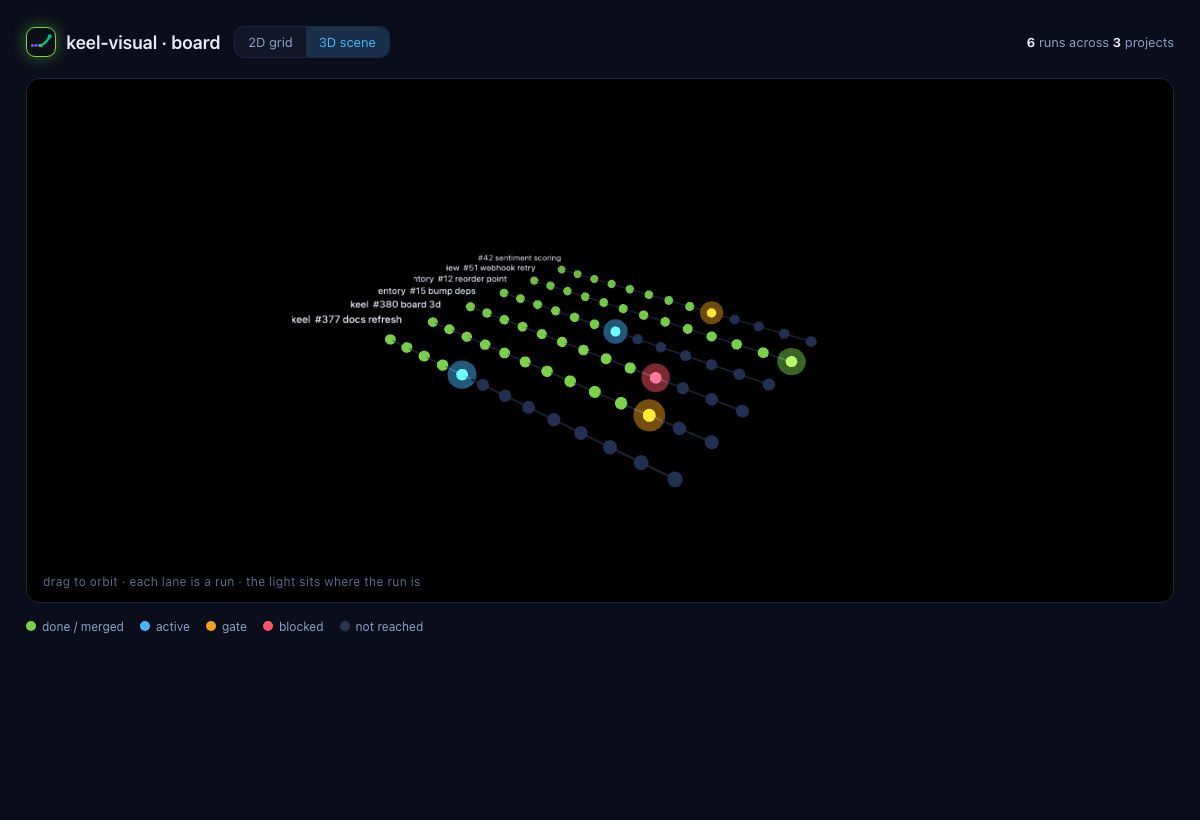
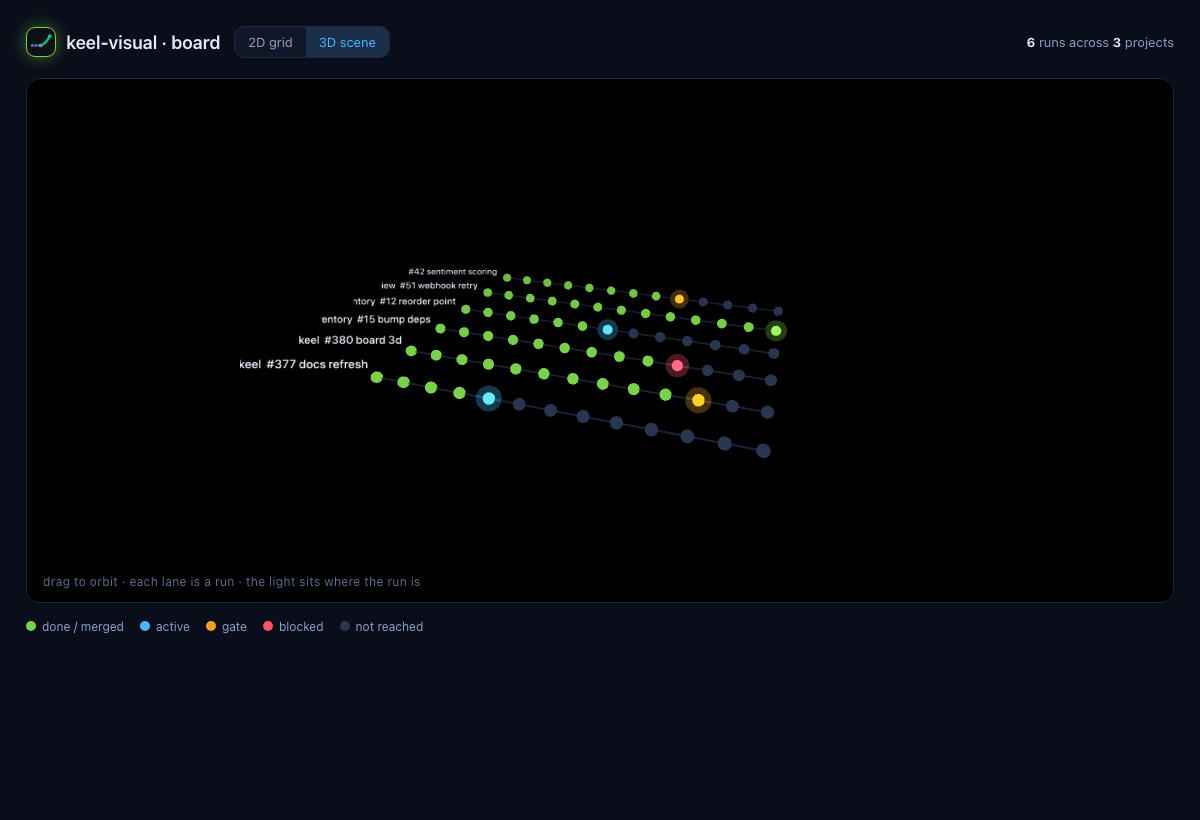
fix(visual): address review — idle colour parity, SRI on Three.js CDN
Reviewer findings on #421:
- 3D idle spheres used 0x223052 but the 2D grid's --idle is #2a3550 —
  unify so a colour means the same thing in both views.
- Three.js loaded from cdnjs without integrity. Add the cdnjs-published
  sha512 SRI + crossorigin/referrerpolicy to both board.html and
  runviz.html (hash verified against the served r128 file).
- board.html count badge built via DOM nodes instead of innerHTML
  (counts were never user data, but no string reaches innerHTML now).

Changed region(s): [[0.185, 0.3049, 0.6783, 0.5793], [0.555, 0.5793, 0.5858, 0.6098]]

diff --git a/keel-visual/src/keel_visual/templates/board.html b/keel-visual/src/keel_visual/templates/board.html
@@ -56,7 +56,7 @@
   .legend span{display:inline-flex;align-items:center;gap:6px}
   .legend i{width:10px;height:10px;border-radius:50%;display:inline-block}
 </style>
-<script src="https://cdnjs.cloudflare.com/ajax/libs/three.js/r128/three.min.js"></script>
+<script src="https://cdnjs.cloudflare.com/ajax/libs/three.js/r128/three.min.js" integrity="sha512-dLxUelApnYxpLt6K2iomGngnHO83iUvZytA3YjDUCjT0HDOHKXnVYdf3hU4JjM8uEhxf9nD1/ey98U3t2vZ0qQ==" crossorigin="anonymous" referrerpolicy="no-referrer"></script>
 </head>
 <body>
 <header>
@@ -81,12 +81,15 @@
 (function(){
   const BOARD = Array.isArray(window.KEEL_BOARD) ? window.KEEL_BOARD : [];
   const nproj = new Set(BOARD.map(r => r.project || '')).size;
-  document.getElementById('count').innerHTML =
-    '<b>'+BOARD.length+'</b> run'+(BOARD.length===1?'':'s')+' across <b>'+nproj+'</b> project'+(nproj===1?'':'s');
 
   function el(tag, cls){ const n=document.createElement(tag); if(cls) n.className=cls; return n; }
+  function bold(n){ const b=el('b'); b.textContent=String(n); return b; }
+  // counts only — never user data — but built via DOM so no string ever reaches innerHTML
+  const count = document.getElementById('count');
+  count.append(bold(BOARD.length), ' run'+(BOARD.length===1?'':'s')+' across ',
+               bold(nproj), ' project'+(nproj===1?'':'s'));
   const GATE_KINDS = {gate:1, merge:1};
-  const COL = {done:0x7ad14a, active:0x49b6ff, gate:0xf0a020, fail:0xff5468, idle:0x223052};
+  const COL = {done:0x7ad14a, active:0x49b6ff, gate:0xf0a020, fail:0xff5468, idle:0x2a3550};
 
   // colour token for a step at index idx given the run's active/merged state
   function stepTone(idx, active, merged, s){

diff --git a/keel-visual/src/keel_visual/templates/runviz.html b/keel-visual/src/keel_visual/templates/runviz.html
@@ -102,7 +102,7 @@
   .legend span{display:inline-flex;align-items:center;gap:6px}
   .legend i{width:10px;height:10px;border-radius:3px;display:inline-block}
 </style>
-<script src="https://cdnjs.cloudflare.com/ajax/libs/three.js/r128/three.min.js"></script>
+<script src="https://cdnjs.cloudflare.com/ajax/libs/three.js/r128/three.min.js" integrity="sha512-dLxUelApnYxpLt6K2iomGngnHO83iUvZytA3YjDUCjT0HDOHKXnVYdf3hU4JjM8uEhxf9nD1/ey98U3t2vZ0qQ==" crossorigin="anonymous" referrerpolicy="no-referrer"></script>
 </head>
 <body>
 <header>
